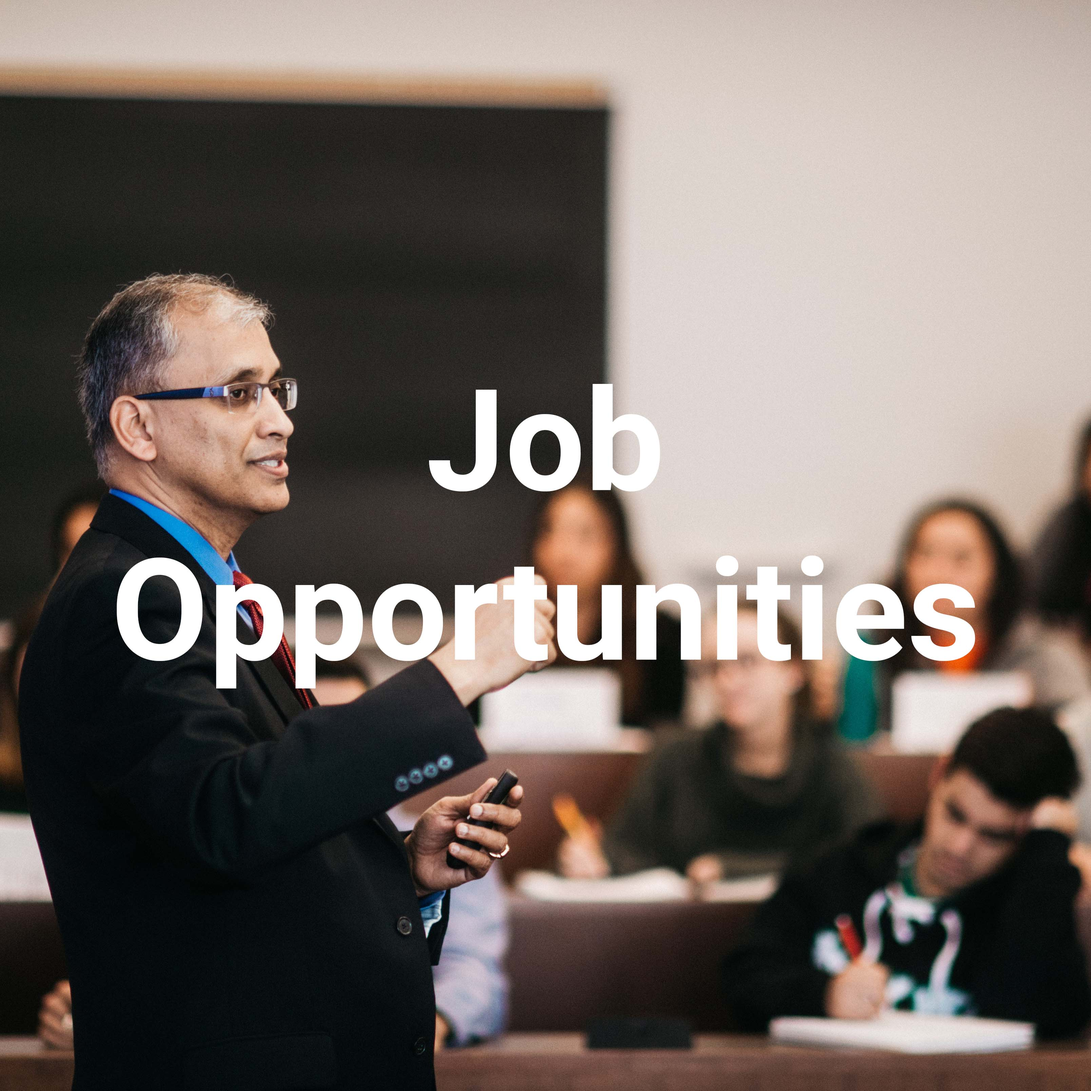
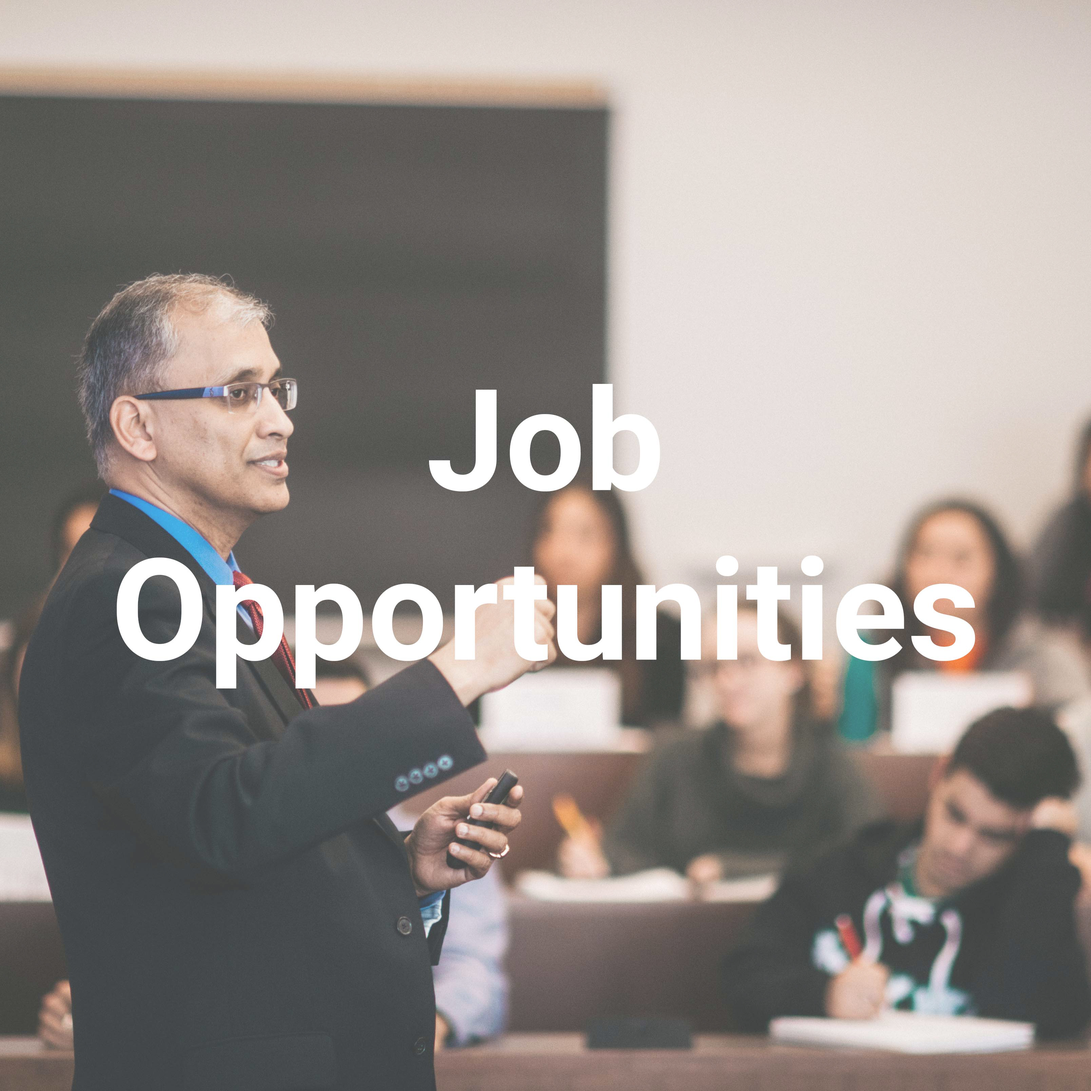
Added white layer to homepage photos

diff --git a/index.html b/index.html
@@ -32,7 +32,7 @@
 	<img class="homepage_images" id="homepage-image-2" src="Images/membership-homepage.jpg" alt="People drinking tea">
 	<a href="callforpapers.html"><img class="homepage_images" src="Images/stackofpapers.jpg"/></a>
 	<img class="homepage_images" src="Images/jobs-homepage.jpg" alt="Professor teaching"/>
-	<img class="homepage_images" src="Images/newsletter.png" alt="Blurbs"/>
+	<img class="homepage_images" src="Images/newsletter.jpg" alt="Blurbs"/>
 </div>
 
 <div id="footer">
